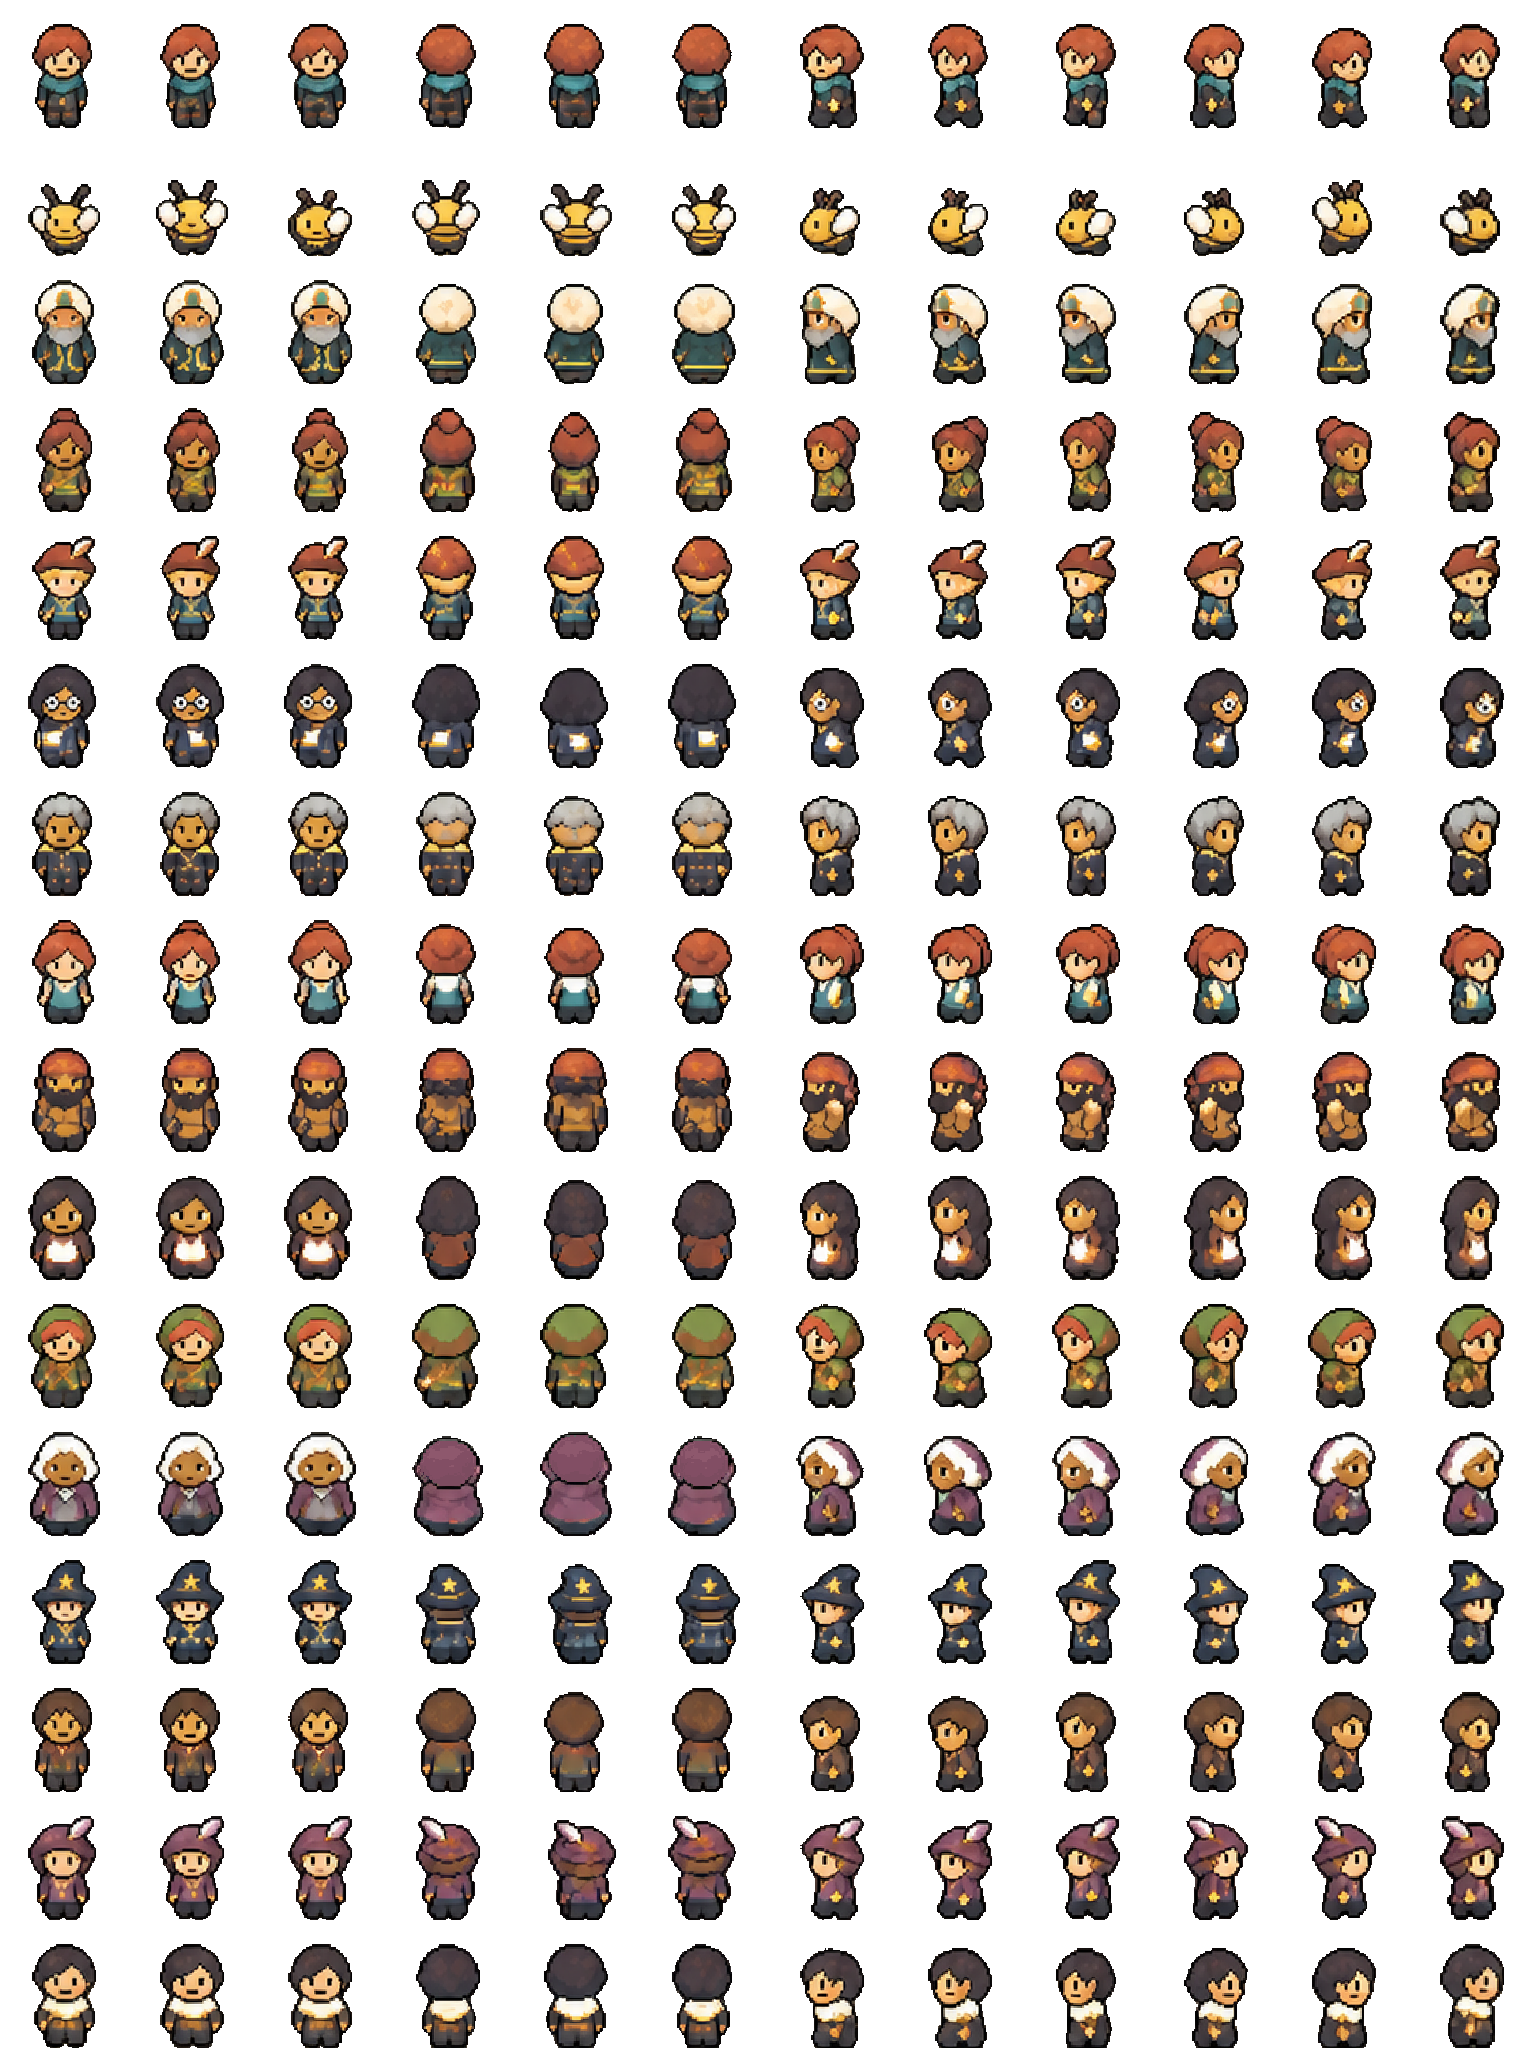
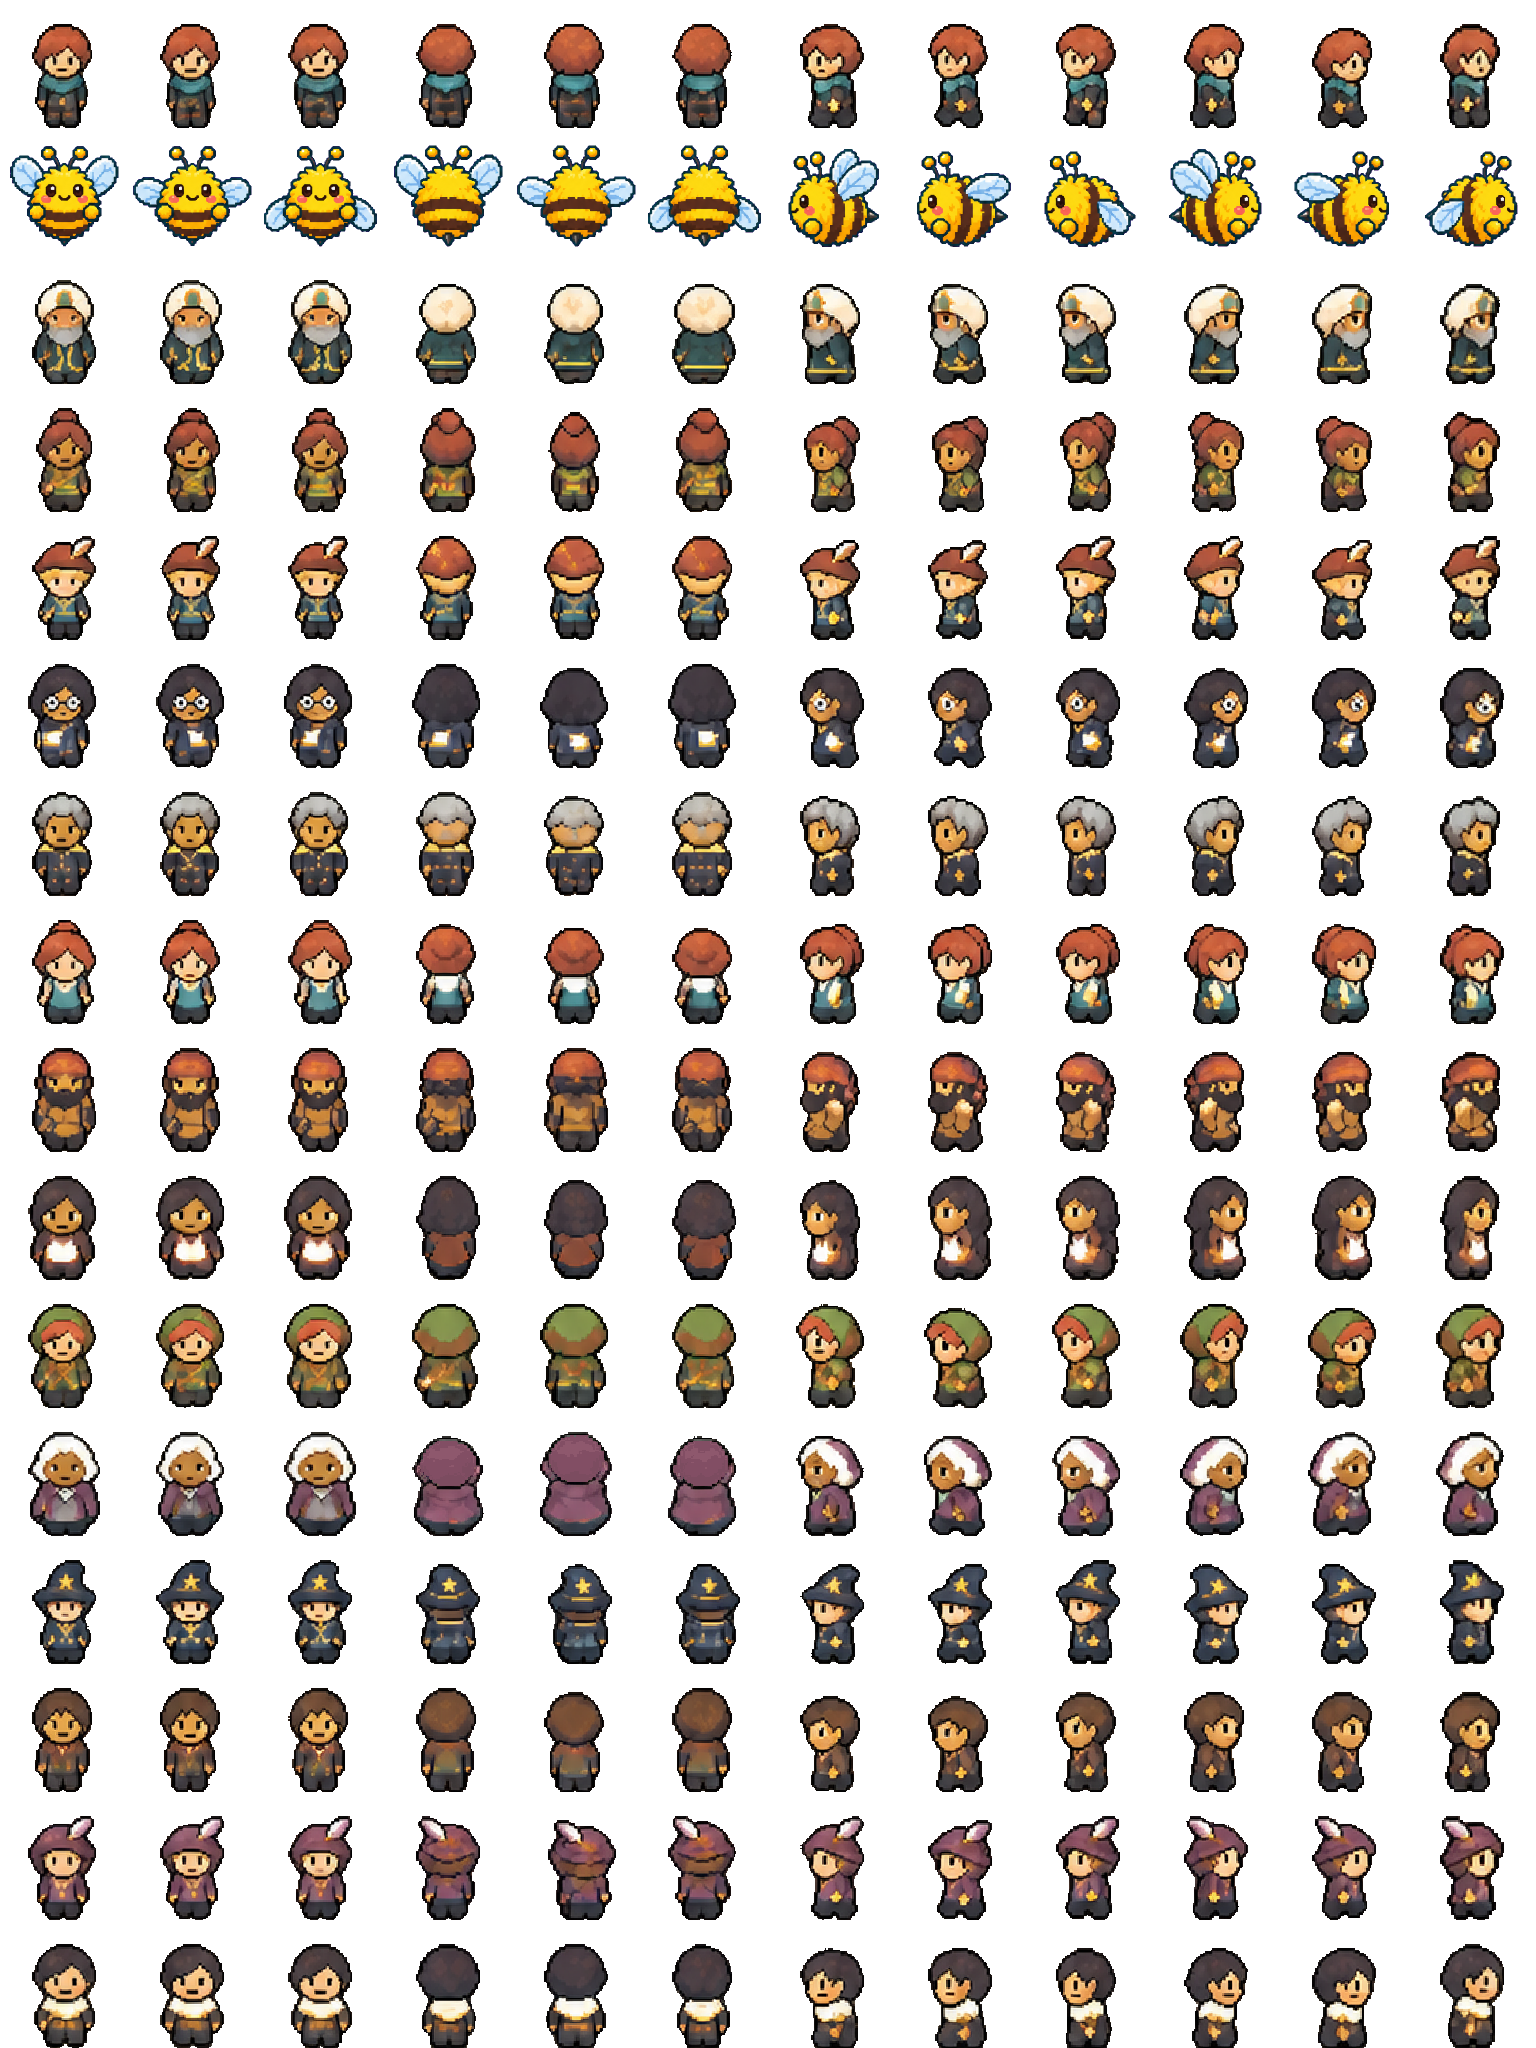
Sharper world: sprites redrawn at 4x detail with Codex image generation, and a new Buzz
- World, building and UI sheets were 32 px per cell and looked blurry at the game's zoom. They are redrawn with Codex's
  image generation (same layout, subjects and style) and cut back into the same cells at 128 px; sprites are baked at 4x
  the world tile (TEX 4), and the ground texture is capped at 4096 px.
- Buzz is redrawn from scratch (four views, three wing poses) and flies properly: constant wing flap, hover bob, lean
  into the movement, squash with the flap, and a ground shadow.
- tools/redraw-art.mjs (plan, run, build) and tools/character-row.mjs are the pipeline that did it, with a small PNG codec.

Changed region(s): [[0.0, 0.0625, 0.9062, 0.125], [0.9375, 0.0625, 1.0, 0.125]]

diff --git a/engine/client/src/game/sprites.ts b/engine/client/src/game/sprites.ts
@@ -7,6 +7,7 @@ import { DIRECTIONS, TEX, artKey, generatedCanvas, generatedCharacter, propCanva
 import { propGrid } from '../../../../tools/lib/props.mjs';
 
 const TILE_PX = 16;
+const MAX_TEXTURE = 4096;
 import { DEFAULT_HOME, type HomeSize } from './geometry';
 import { planHouse, houseBlocks } from '../../../../tools/lib/houses.mjs';
 import { roadConnections, paintRoadTile } from './terrain';
@@ -31,20 +32,23 @@ const TILE: Record<string, string> = { '0': 't_ground_0', '1': 't_ground_1', '2'
 export function makeWorldArt(scene: Phaser.Scene, plan: any, art: any) {
   const defs = art.scenery;
   const world = defs.size?.tile ?? 16, tile = world * TEX;      // sprites are baked at TEX x the world tile (drawn scaled down: smooth, not enlarged pixels)
+  // the ground is one big texture: keep it inside what every GPU accepts (4096 px), at the cost of a little sharpness on very large maps
+  const gtile = Math.min(tile, Math.floor(MAX_TEXTURE / Math.max(plan.w, plan.h)));
   const ground = document.createElement('canvas');
-  ground.width = plan.w * tile; ground.height = plan.h * tile;
+  ground.width = plan.w * gtile; ground.height = plan.h * gtile;
   const ctx = ground.getContext('2d')!;
   ctx.imageSmoothingEnabled = true; ctx.imageSmoothingQuality = 'high';
   for (let y = 0; y < plan.h; y++) for (let x = 0; x < plan.w; x++) {
-    const ch = plan.ground[y][x], img = generatedCanvas(TILE[ch] ?? TILE.V, tile);
+    const ch = plan.ground[y][x], img = generatedCanvas(TILE[ch] ?? TILE.V, gtile);
     if (!img) continue;
-    if (ch === 'p') paintRoadTile(ctx, img, x * tile, y * tile, tile, roadConnections(plan, x, y));
+    if (ch === 'p') paintRoadTile(ctx, img, x * gtile, y * gtile, gtile, roadConnections(plan, x, y));
     else if (ch === 'b' && (roadConnections(plan, x, y).east || roadConnections(plan, x, y).west)) {
-      ctx.save(); ctx.translate((x + 0.5) * tile, (y + 0.5) * tile); ctx.rotate(Math.PI / 2);
-      ctx.drawImage(img, -tile / 2, -tile / 2, tile, tile); ctx.restore();
-    } else ctx.drawImage(img, x * tile, y * tile, tile, tile);
+      ctx.save(); ctx.translate((x + 0.5) * gtile, (y + 0.5) * gtile); ctx.rotate(Math.PI / 2);
+      ctx.drawImage(img, -gtile / 2, -gtile / 2, gtile, gtile); ctx.restore();
+    } else ctx.drawImage(img, x * gtile, y * gtile, gtile, gtile);
   }
   canvasTexture(scene, 'ground', ground);
+  const groundScale = world / gtile;           // world pixels per texture pixel of the ground
   for (const [id, def] of Object.entries<any>(defs.props)) {
     const [cols, rows] = propGrid(def);
     for (let v = 0; v < (def.variants ?? 1); v++) canvasTexture(scene, `prop-${id}-${v}`, propCanvas(id, def, v, tile) ?? blank(cols * tile, rows * tile));
@@ -55,6 +59,7 @@ export function makeWorldArt(scene: Phaser.Scene, plan: any, art: any) {
   grad.addColorStop(0, 'rgba(255,255,255,0.9)'); grad.addColorStop(0.4, 'rgba(255,255,255,0.28)'); grad.addColorStop(1, 'rgba(255,255,255,0)');
   x.fillStyle = grad; x.fillRect(0, 0, 64, 64);
   canvasTexture(scene, 'glow', g);
+  return { groundScale };
 }
 
 /** One block of a home, placed on the home's grid (x right, y up from the ground line), in pixels. */

diff --git a/engine/client/src/game/pixels.ts b/engine/client/src/game/pixels.ts
@@ -15,7 +15,7 @@ type GenFrame = { img: HTMLImageElement; x: number; y: number; w: number; h: num
 let GEN: Map<string, GenFrame> | null = null, genRevision: string | null = null, genLoad = 0;
 /** Texture pixels per world pixel: sprites are baked at this multiple of the world tile and drawn scaled down by it, so the
  * camera zoom shows them smoothly instead of as enlarged pixels. */
-export const TEX = 2;
+export const TEX = 4;
 const canvasCache = new Map<string, HTMLCanvasElement>();
 const listeners = new Set<() => void>();
 /** Sprite-name key, same rule as the server (engine/server/art.mjs keyOf). */

diff --git a/packs/core/art/default/LAYOUT.md b/packs/core/art/default/LAYOUT.md
@@ -1,7 +1,7 @@
 # Default sprite sheets: layout
 
 Every sprite is a **square**. Movement frames and avatar portraits are separate sheets and may use higher source resolutions.
-World, building and UI cells share one tile size. Cells are read left to right, top to bottom. A bigger object
+World, building and UI cells share one tile size (128 px per cell: redrawn at four times the original detail with Codex image generation, `node tools/redraw-art.mjs`; the game bakes them at 64 px). Cells are read left to right, top to bottom. A bigger object
 (a tree, a well, a house) is several sprites side by side: draw each part so it joins its neighbours edge to edge.
 Leave empty cells transparent. Transparent PNG (RGBA). Files: `packs/core/art/default/<sheet>.png`; the *-guide.png images
 show the same grids with every cell named.
@@ -52,7 +52,7 @@ The character stands on the bottom edge of the cell, centred, the same size and 
 | 2, 3 | portrait_agent_13 | head-and-shoulders avatar with a visible mouth; same character order as the movement sheet |
 | 3, 3 | portrait_agent_14 | head-and-shoulders avatar with a visible mouth; same character order as the movement sheet |
 
-## world.png  (8 x 11 cells = 256 x 352)
+## world.png  (8 x 11 cells = 1024 x 1408)
 
 | cell (col, row) | sprite | what to draw |
 | --- | --- | --- |
@@ -138,7 +138,7 @@ The character stands on the bottom edge of the cell, centred, the same size and 
 | 7, 9 | b_plaza_0_1 | plaza landmark (a notice board / terminal / monument), part col 0 row 1 |
 | 0, 10 | b_plaza_1_1 | plaza landmark (a notice board / terminal / monument), part col 1 row 1 |
 
-## buildings.png  (8 x 34 cells = 256 x 1088)
+## buildings.png  (8 x 34 cells = 1024 x 4352)
 
 | cell (col, row) | sprite | what to draw |
 | --- | --- | --- |
@@ -412,7 +412,7 @@ The character stands on the bottom edge of the cell, centred, the same size and 
 | 6, 33 | h_house_treasury_3_4 | illustrated treasury house, part col 3 row 4 (joins neighbouring cells) |
 | 7, 33 | h_house_treasury_4_4 | illustrated treasury house, part col 4 row 4 (joins neighbouring cells) |
 
-## ui.png  (8 x 5 cells = 256 x 160)
+## ui.png  (8 x 5 cells = 1024 x 640)
 
 | cell (col, row) | sprite | what to draw |
 | --- | --- | --- |
